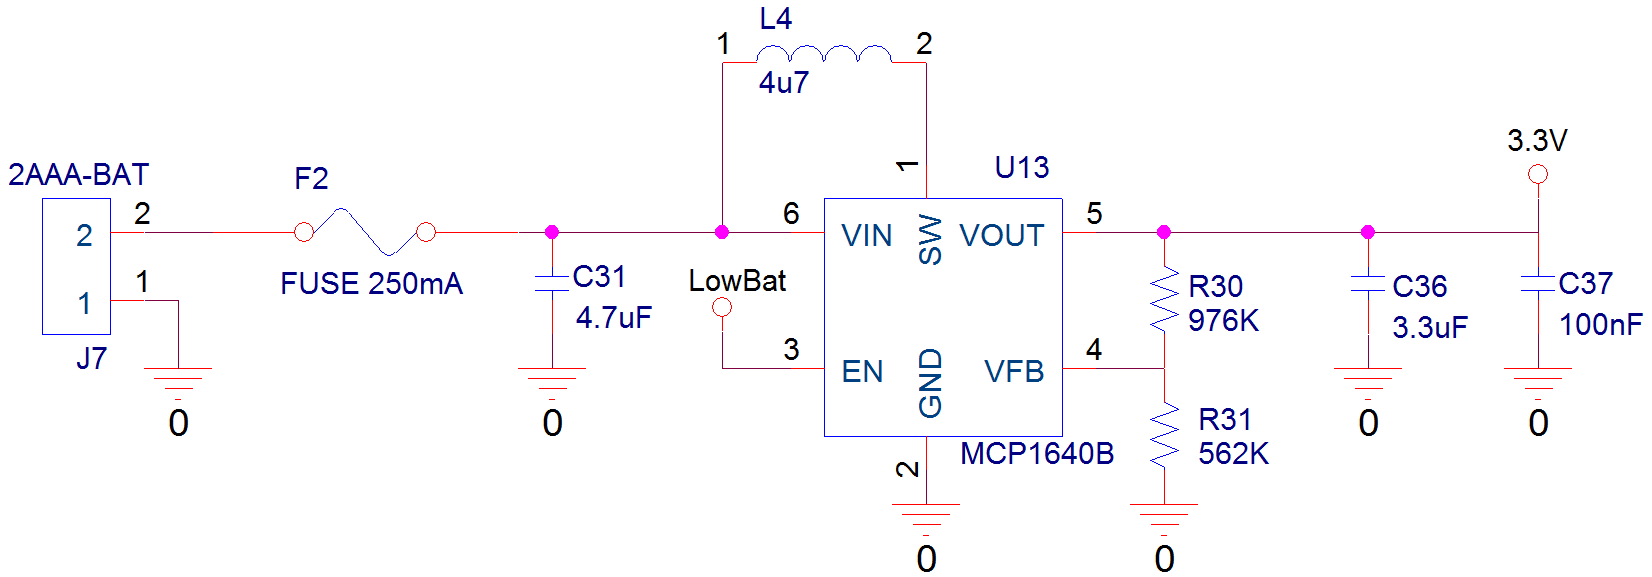
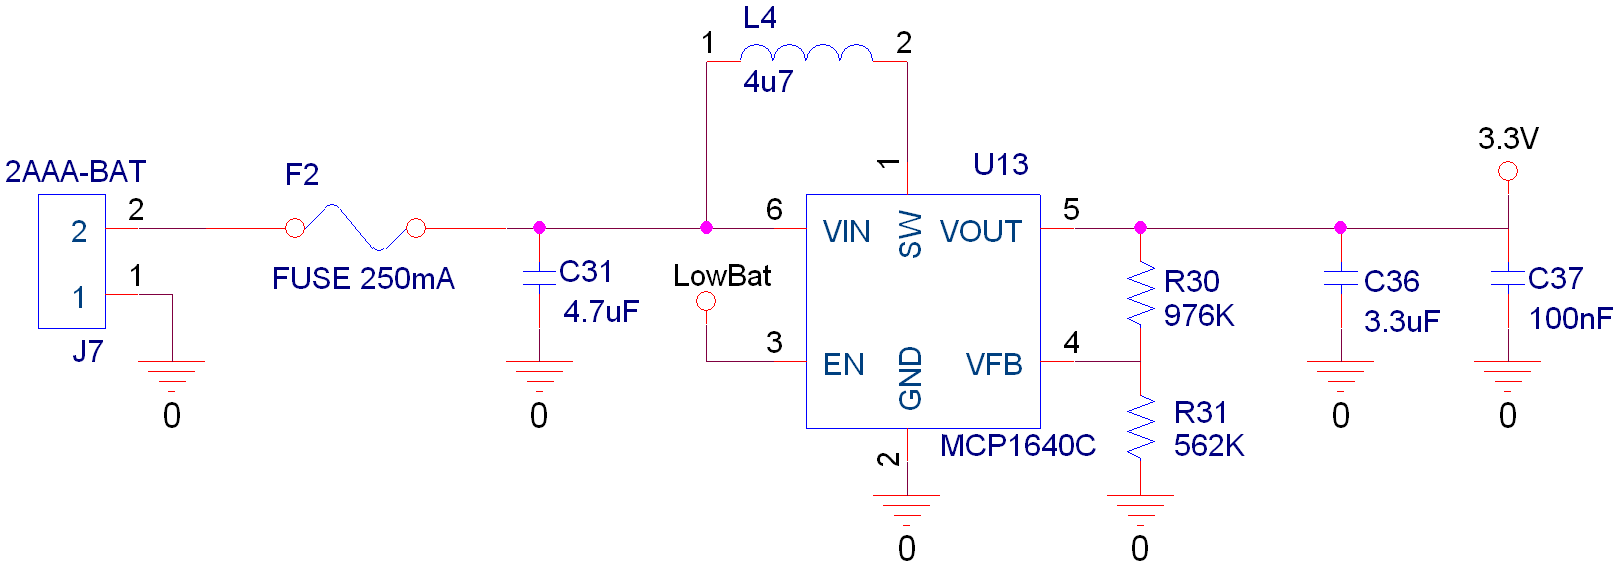
smårettelser til Rapport

diff --git a/LaTeX/rapport/Projektbeskrivelse/HWDesign/hwdesign.tex b/LaTeX/rapport/Projektbeskrivelse/HWDesign/hwdesign.tex
@@ -24,13 +24,17 @@ På Figur \ref{fig:bddkontrol} ses en uddybning af de blokke der tilsammen udgø
 
 \subsubsection{Design}
 
+%%%%%%%%%%%%%%%%%%%%%%%%%%%%%%%%%%%%%%%%%%%% MIKROPROCESSOR %%%%%%%%%%%%%%%%%%%%%%%%%%%%%%%%%%%%%%%%%%%%%%%%%%%%%%%%
+
 \textbf{Mikroprocessor}\\
 Mikroprocessoren til kontrolboksen er valgt til at være en Atmel ATMEGA8L i TQFP pakke. Samme mikroprocessor er valgt til sensoren. Valget stod mellem Microchip's PIC serie eller Atmels ATMEGA serie og da der var størst kendskab til programmering af Atmel var det den producent der blev valgt. Fordelen ved Atmel er samtidig at programmet til at programmere mikroprocessoren i, AtmelStudio, er gratis og at der er nogle gode biblioteker som er godt dokumenteret. Microchip kan derimod godt være svære at gennemskue med hensyn til hvad der kræves betaling for.  
 
 Af perifere enheder på kontrolboksen bruges der SPI til transceiveren, I2C til displayet samt en del analoge pins til kontrol af motorventil og tastatur. På sensoren bruges der også den indbyggede 10-bit SAR ADC. 
 
+%%%%%%%%%%%%%%%%%%%%%%%%%%%%%%%%%%%%%%%%%%%% MOTORVENTIL %%%%%%%%%%%%%%%%%%%%%%%%%%%%%%%%%%%%%%%%%%%%%%%%%%%%%%%%
+
 \textbf{Motorventil}\\
-Der blev hos den kinesiske producent Flow-Control \cite{lib:flowcontrol} bestilt nogle motorventiler hjem. Disse blev i første omgang valgt grundet deres lave pris, omkring 150kr stykket og har en tilslutning som opfylder kravet om den skal kunne monteres på et 1/2" vandrør. Ventilen blev adskilt og det sås at der sat et lille print med et relæ til styring af ventilen. Styringen var lavet således at når den enten var i fuldt lukket eller åben position trak den intet strøm. På Figur \ref{fig:motorventilSamlet} ses motorventilen som den kommer fra producenten. På Figur \ref{fig:delt} ses motorventilen adskilt, hvor de grønne ledninger er til posotions-kontakterne og de røde er til motoren.
+Der blev hos den kinesiske producent Flow-Control \cite{lib:flowcontrol} bestilt nogle motorventiler hjem. Disse blev i første omgang valgt grundet deres lave pris, omkring 150kr stykket og har en tilslutning som opfylder kravet om den skal kunne monteres på et 1/2" vandrør. Ventilen blev adskilt og det sås at der sat et lille print med et relæ til styring af ventilen. Styringen var lavet således at når den enten var i fuldt lukket eller åben position trak den intet strøm. På Figur \ref{fig:motorventilSamlet} ses motorventilen som den kommer fra producenten. På Figur \ref{fig:delt} ses motorventilen adskilt, hvor de grønne ledninger er til postions-kontakterne og de røde er til motoren.
 
 \begin{figure}[H]
   \centering
@@ -58,6 +62,8 @@ Der blev dog i første omgang designet en relæstyring af ventilen. Men den vist
 
 \newpage
 
+%%%%%%%%%%%%%%%%%%%%%%%%%%%%%%%%%%%%%%%%%%%% DISPLAY %%%%%%%%%%%%%%%%%%%%%%%%%%%%%%%%%%%%%%%%%%%%%%%%%%%%%%%%
+
 \textbf{Display}\\
 Af krav til displayet var at det skulle køre på 3.3V, kommunikere over I2C bus og have 16X2 karakterer samt baggrundsbelysning. Ved undersøgelse af flere displays blev Newheaven's display \textit{NHD-C0216CiZ-FSW-FBW-3V3} udvalgt. Dette skyldes primært at display'et har indbygget DC-DC step-up converter således at displayet kan forsynes ned til 2.8V. Normalt kører LCD displays på 5V, hvilket er over forsyningskravet på 3.3V. Opsætning og kommunikation sker via I2C som kravet foreskriver. Diagrammet for display'et ses på Figur \ref{fig:display_diagram}.
 
@@ -68,9 +74,11 @@ Af krav til displayet var at det skulle køre på 3.3V, kommunikere over I2C bus
 	\label{fig:display_diagram}
 \end{figure}
 
-D11 sidder for at sænke forsyningsspændingen til omkring 3V da forsyningen ikke må overskride 3.3V. C22 sidde over pin5 og pin6 som udgangskondesator for Step-up konverteren, C23 sidder over pin7 og pin8 som en integreret del af step-up konverteren og disse værdier er valgt ud fra databladet anbefalinger. Derudover benyttes Q13 for at kontrollere LED'en til baggrundsbelysningen hvormed dette kan styres fra software. SDA og SCL linjerne har pull-up modstande påsat som en del af standardopsætning for I2C-bussen.
+D11 sidder for at sænke forsyningsspændingen til omkring 3V da forsyningen ikke må overskride 3.3V. C22 sidder over pin5 og pin6 som udgangskondensator for Step-up konverteren, C23 sidder over pin7 og pin8 som en integreret del af step-up konverteren og disse værdier er valgt ud fra databladet anbefalinger. Derudover benyttes Q13 for at kontrollere LED'en til baggrundsbelysningen hvormed dette kan styres fra software. SDA og SCL linjerne har pull-up modstande påsat som en del af standardopsætning for I2C-bussen.
 
-\textbf{HF Transceiver}\\ \label{hwdesign_hftransceiver}
+%%%%%%%%%%%%%%%%%%%%%%%%%%%%%%%%%%%%%%%%%%%% HF TRANSCEIVER %%%%%%%%%%%%%%%%%%%%%%%%%%%%%%%%%%%%%%%%%%%%%%%%%%%%%%%%
+
+\textbf{HF Transceiver} \label{hwdesign_hftransceiver} \\
 Der er valgt at benytte en transceiver af typen MRF49XA fra Microchip, denne er valgt da den opfylder designkravene. Derudover skal denne kreds ikke forprogrammeres som mange andre RF-kredse skal, den kan derimod sættes op ved initialisering fra mikroprocessoren som krævet af systemet. Chippen er som skræddersyet til dette system da den er designet til batteri-applikationer. Den har en indbygget "low battery voltage detection" som afgiver et interrupt til mikroprocessoren når batterispændingen når under et forudindstillet threshold som sættes ved initiering af transceiveren. Dette interrupt bliver brugt på sensoren til at enable boostkonverteren, mere info kan findes i sektion \ref{P-sec:HWimp_transceiver_kontrolboks}: \nameref{P-sec:HWimp_transceiver_kontrolboks} side \pageref{P-sec:HWimp_transceiver_kontrolboks} for transceiveren, i dokumentationen. Derudover har den også en indbygget wake-up timer således at chippen kan sættes i sleep-mode, herved minimeres strømforbruget til nogle få $\mu A$, den kan herefter vækkes op igen efter en forudindstillet tidsperiode. Transceiveren kan kommunikere ved 433/868/915 MHz og ligger derfor i et frekvens område som ofte benyttes i consumer-elektronik. Transceiveren benytter sig af FSK modulation.
 
 På Figur \ref{fig:mrfx49a_diagram_kontrolboks} ses implementering af transceiveren på kontrolboksen.
@@ -85,8 +93,12 @@ På Figur \ref{fig:mrfx49a_diagram_kontrolboks} ses implementering af transceive
 Som udgangspunkt er databladets anbefalinger fulgt. Balun-kredsløbet er designet på baggrund af referencedesignet i databladet. Her er det vigtigt at holde sig til lavtolerance-komponenter for at holde sig tæt på de 50 $\Omega$ udgangsimpedans som det kræves af antennen. Det skal dog nævnes at der i databladet er byttet om på værdierne til balun-kredsløbet ved 433MHz og 868MHz i tabellerne under diagrammerne. Det er derfor svært at vide hvilke værdier der er de rigtige. Fejlen blev først opdaget tilsidst i projektet da rækkevidden ikke kunne komme længere op end ca 10m. Det er derfor nærliggende at tro det er de forkerte værdier som er blevet monteret.
 \newpage
 
+%%%%%%%%%%%%%%%%%%%%%%%%%%%%%%%%%%%%%%%%%%%% ANTENNE %%%%%%%%%%%%%%%%%%%%%%%%%%%%%%%%%%%%%%%%%%%%%%%%%%%%%%%%
+
 \textbf{Antenne}\\
 Der er på kontrolboksen valgt at bruge en SMD-antenne. Dette skyldes at der var begrænset plads i kontrolboksen og at andre løsninger enten ville være for dyre eller mekanisk ustabil. Her var der overvejet at trække en metalwire rundt i hele kontrolboksen som antenne eller at lave et ekstra print med en PCB-antenne, som monteres via en connector. SMD-antennen er af producenten \texttt{Johanson Technology} med  navn \texttt{0433AT62A0020} og har et tab på 4dBi. 
+
+%%%%%%%%%%%%%%%%%%%%%%%%%%%%%%%%%%%%%%%%%%%% STRØMFORSYNING %%%%%%%%%%%%%%%%%%%%%%%%%%%%%%%%%%%%%%%%%%%%%%%%%%%%%%%%
 
 \textbf{Strømforsyning}\\
 Kontrolboksen forsynes med en ekstern strømforsyning på 5V denne har en tolerence på 10\%. Da kontrolboksen internt skal køre på 3.3V er derfor nødvendigt at konvertere spændingen ned. Til dette er brugt en spændingsregulator. Samtidig er der lavet beskyttelse på indgangen således der beskyttes for omvendt polarisation, overspænding samt et for stort strømtræk. Se Figur \ref{fig:stromforsyning_digram1} 
@@ -100,8 +112,10 @@ Kontrolboksen forsynes med en ekstern strømforsyning på 5V denne har en tolere
 
 Spændingsregulatoren kan levere op til 500mA hvilket er mere end hvad der er brug for. Allerede sikringen vil sprænge ved et strømforbrug på 250mA. Beregninger som findes i projektdokummentationen sektion \ref{P-sec:HWimp_stromforsyning}: \nameref{P-sec:HWimp_stromforsyning} side \pageref{P-sec:HWimp_stromforsyning}, viser at der trækkes maksimalt omkring 40mA. Spændingsregulatoren kan derfor vælges til en mindre type som samtidig vil være billigere. 
 
+%%%%%%%%%%%%%%%%%%%%%%%%%%%%%%%%%%%%%%%%%%%% TASTAETUR %%%%%%%%%%%%%%%%%%%%%%%%%%%%%%%%%%%%%%%%%%%%%%%%%%%%%%%%
+
 \textbf{Tastatur}\\
-Systemet betjenes via et tastatur der monteres på kontrolboksen. Tastaturet består af 4 knapper som brugeren kan benytte til at navigere rundt i menuen. En sketchup af tastaturet kan ses på Figur \ref{fig:keypad_UI}. \texttt{SET} knappen benyttes til at skifte mellem menupunkterne. \texttt{Pil-op} og \texttt{Pil-ned} benyttes hhv.til at inkrementere eller dekrementere en given værdi. \texttt{OK} benyttes til at gemme indstillingen. For et fuldt overblik over menuen henvises til usecases i sektion \ref{P-ch:kravspecifikation} i projektdokumentationen. Tastaturet indeholder desuden et vindue til displayet, samt en rød LED der tændes hvis systemet registrerer en fejl. Eks. hvis batterispændingen bliver for lav. I det færdige produkt forventes det at implementere en specialbygget keypad, men til prototypeformål er her benyttet en 4 knappers membrane switch keypad som tastatur.
+Systemet betjenes via et tastatur der monteres på kontrolboksen. Tastaturet består af 4 knapper som brugeren kan benytte til at navigere rundt i menuen. En sketchup af tastaturet kan ses på Figur \ref{fig:keypad_UI} på side \pageref{fig:keypad_UI}. \texttt{SET} knappen benyttes til at skifte mellem menupunkterne. \texttt{Pil-op} og \texttt{Pil-ned} benyttes hhv.til at inkrementere eller dekrementere en given værdi. \texttt{OK} benyttes til at gemme indstillingen. For et fuldt overblik over menuen henvises til usecases i sektion \ref{P-ch:kravspecifikation} i projektdokumentationen. Tastaturet indeholder desuden et vindue til displayet, samt en rød LED der tændes hvis systemet registrerer en fejl. Eks. hvis batterispændingen bliver for lav. I det færdige produkt forventes det at implementere en specialbygget keypad, men til prototypeformål er her benyttet en 4 knappers membrane switch keypad som tastatur.
 
 \begin{figure}[H]
   \centering
@@ -120,6 +134,9 @@ Systemet betjenes via et tastatur der monteres på kontrolboksen. Tastaturet bes
 
 \newpage
 
+%%%%%%%%%%%%%%%%%%%%%%%%%%%%%%%%%%%%%%%%%%%% SENSOR %%%%%%%%%%%%%%%%%%%%%%%%%%%%%%%%%%%%%%%%%%%%%%%%%%%%%%%%
+%%%%%%%%%%%%%%%%%%%%%%%%%%%%%%%%%%%%%%%%%%%% SENSOR %%%%%%%%%%%%%%%%%%%%%%%%%%%%%%%%%%%%%%%%%%%%%%%%%%%%%%%%
+
 \subsection{Sensor}
 
 \begin{figure}[H]
@@ -131,8 +148,12 @@ Systemet betjenes via et tastatur der monteres på kontrolboksen. Tastaturet bes
 
 På Figur \ref{fig:bddsensor} ses en uddybning af de blokke der tilsammen udgør sensoren. Herunder beskrives hvordan disse enkelte blokke er blevet implementeret. For uddybning af designovervejelserne henvises til sektion \ref{P-sec:hardwaredesign}: \nameref{P-sec:hardwaredesign} på side \pageref{P-sec:hardwaredesign} i projektdokumentationen.
 
+%%%%%%%%%%%%%%%%%%%%%%%%%%%%%%%%%%%%%%%%%%%% MIKROPROCESSOR %%%%%%%%%%%%%%%%%%%%%%%%%%%%%%%%%%%%%%%%%%%%%%%%%%%%%%%%
+
 \textbf{Mikroprocessor}\\
 Som mikroprocessor er der valgt samme type som på kontrolboksen. Her er der dog små ændringer i brugen da den interne ADC bruges til at sample værdierne fra både jordfugtmåleren og lyssensoren. 
+
+%%%%%%%%%%%%%%%%%%%%%%%%%%%%%%%%%%%%%%%%%%%% JORDFUGT %%%%%%%%%%%%%%%%%%%%%%%%%%%%%%%%%%%%%%%%%%%%%%%%%%%%%%%%
 
 \textbf{Jordfugtmåler}\\
 Hovedformålet med jordfugtmåleren er som det fremgår af navnet; at måle jordfugtigheden. Her er der i videnskabelige artikler fundet frem til fire metoder at gøre dette på. En resistiv målemetode \cite{lib:MultiSensorSystem}, en kapasitiv målemetode\cite{lib:MultiSensorSystem}, en optisk målemetode\cite{lib:optical} og en metode hvor der bruges en varmepuls\cite{lib:DPHP}. Den resistive målemetode er den simpleste men desværre også den mest upræcise. Der er igennem projektet blevet undersøgt om denne målemetode kunne bruges trods dens begrænsninger og om der kunne findes en løsning der på. Da det viste sig at være svært at forbedre den resistive målemetode blev der herefter undersøgt hvordan der kunne laves en kapasitiv måling. Skalaen som der er brugt at at bestemme jordfugten er den volumetriske skala\cite{lib:wiki_waterContent}. 
@@ -156,6 +177,8 @@ Hvor $m_w$ er massen af væske, $m_{wet}$ er massen af den fugtige jord og $\eta
 \end{equation}
 
 Det er derfor nu muligt at bestemme en jordfugtighed uden at skulle måle volumen af prøven. Til vejning af jordprøver er der blevet brugt en vægt af producenten \texttt{Sartorius} model \texttt{QUINTIX2102-1S} med en præcision på $\pm0.01g$.
+
+%%%%%%%%%%%%%%%%%%%%%%%%%%%%%%%%%%%%%%%%%%%% JORDFUGT - RESISTIV MÅLING %%%%%%%%%%%%%%%%%%%%%%%%%%%%%%%%%%%%%%%%%%%%%%%%%%%%%%%%
 
 \textit{Resistiv måling} \\
 Den resistive målemetode er en metode til at måle den ohmske værdi af jorden. Jo mere vand jorden indeholder jo mere ledende vil jorden være og den ohmske værdi vil herefter falde. Der er dog mange faktor som kan være med til at give en måleusikkerhed, disse usikkerheder er betinget af selve næringsindholdet i jorden, om jorden er forurenet med metaller eller om proben som der måles med, har været udsat for kraftig tæring. Disse betingelser kunne der kalibreres for, men en kalibrering vil være besværlig for en almindelig bruger af systemet, da det vil kræve at brugeren ovntørrer en jordprøve og herefter tilsætter en præcis mængde vand for at vide med sikkerhed hvilken værdi der skal kalibreres ind efter. Det viste sig dog at der sammen med den resistive måling af jorden også opstod en kapasitiv virkning, som funktion af en stigetid. Ved hjælp af denne kunne der opstilles et ækvivalent-diagram som ses på Figur \ref{fig:akvj1}. 
@@ -186,6 +209,7 @@ Hvor a=2.219$\cdot 10^{7}$ b=-39.8 c=151.9 d=-3.473
 	\label{fig:funcfit}
 \end{figure} 
 
+%%%%%%%%%%%%%%%%%%%%%%%%%%%%%%%%%%%%%%%%%%%% JORDFUGT - Kapactiv måling %%%%%%%%%%%%%%%%%%%%%%%%%%%%%%%%%%%%%%%%%%%%%%%%%%%%%%%%
 
 \textit{Kapacitiv måling} \\
 Den kapacitive målemetode benytter sig af et jordspyd stukket ned i jorden\cite{lib:SoilModeling} \cite{lib:MultiSensorSystem} \cite{lib:DPHP} \cite{lib:cap_soil}. På jordspyddet er der to kobberplader som vil danne en kapacitet der vil variere afhængig af fugtigheden af den jord det befinder sig i. Se Figur \ref{fig:kap1} og \ref{fig:kap2}. Kobberbanerne skal dog forinden belægges med en elektrisk isolerende coating for at undgå kortslutning og korodering.
@@ -244,7 +268,6 @@ Der er blevet designet 4 typer af jordspyd som er blevet brugt til test. Det vis
   \end{minipage}
 \end{figure}
 
-
 \begin{figure}[H]
   \centering
     \begin{minipage}[b]{0.4\textwidth}
@@ -285,10 +308,10 @@ Det blev overvejet hvordan kapaciteten kunne måles præcist uden at det skulle 
 	\label{fig:j9}
 \end{figure}  
 
-Kredsløbet virker ved at der fra mikroprocessoren kommer en firkantspænding på 100kHz igennem jordspydet som virker som en kondensator. Denne kondensator bliver belastet af R22 således at der totalt opnåes en faseændring på 55$^\circ$ fra 0\% fugtighed til 100\% fugtighed. Herefter føres firkantspændingen i et båndpasfilter og vil ligge som en faseforskudt sinus på udgangen af U12A. Da U12 er en inverterende forstærker monteres U8A som en komparator der både vender fasen til 0$^\circ$ igen og samtidig sørger for at konvertere sinusen om til en firkant igen, således indgangen af U10A skifter hurtigt. U10A er en XOR-gate som her bruges tom fasedetektion. På indgang B kommer den faseforskudte firkant og på indgang A er en forskudt frekvens fra mikroprocessoren som kalibreres ind ved at kalde en kalibrerings-funktion således der ligger 0V på C26 ved 0\% fugtighed. Alt afhænging af fugtigheden i jorden vil der nu ligge en DC på C26. Denne forstærkes som sidste led op af U12B således der gived et bedre dynamisk range til mikroprocessorens ADC. Q11 er blevet monteret for at kunne slukke totalt for målekredsløbet når det er inaktivt for at spare strøm. \\
+Kredsløbet virker ved at der fra mikroprocessoren kommer en firkantspænding på 100kHz igennem jordspyddet som virker som en kondensator. Denne kondensator bliver belastet af R22 således at der totalt opnås en faseændring på 55$^\circ$ fra 0\% fugtighed til 100\% fugtighed. Herefter føres firkantspændingen i et båndpasfilter og vil ligge som en faseforskudt sinus på udgangen af U12A. Da U12 er en inverterende forstærker monteres U8A som en komparator der både vender fasen til 0$^\circ$ igen og samtidig sørger for at konvertere sinusen om til en firkant igen, således indgangen af U10A skifter hurtigt. U10A er en XOR-gate som her bruges tom fasedetektion. På indgang B kommer den faseforskudte firkant og på indgang A er en forskudt frekvens fra mikroprocessoren som kalibreres ind ved at kalde en kalibrerings-funktion således der ligger 0V på C26 ved 0\% fugtighed. Alt afhængig af fugtigheden i jorden vil der nu ligge en DC på C26. Denne forstærkes som sidste led op af U12B således der givet et bedre dynamisk range til mikroprocessorens ADC. Q11 er blevet monteret for at kunne slukke totalt for målekredsløbet når det er inaktivt for at spare strøm. \\
 
 Desværre viste kredsløbet sig at volde store problemer. I første øjekast så det ud til at virke, men ved nærmere iagttagelse sås der at det gav en for stor faseforskydelse. Det viste sig at faseforskydelsen opstod i U12A. Der blev testet med en tonegenerator og det blev opserveret at der ved en amplitude ændring på indgangen opstod en faseforskydelse på udgangen. Filterets komponentværdier blev ændret til et lavere Q men dette gav intet bedre resultat. Komponent-værdierne blev også skaleret således udgangen ikke blev belastet så hårdt. Dette hjalp hellere ikke. Til sidst blev det forsøgt at udskifte operationsforstærkeren til en anden type. Dette gjorde dog at båndpassfilteret begyndte at oscillere.
-Da det begyndte at knibe med tiden blev der derfor implementeret en løsning som i starten var valgt fra pga. dens dårlige støj og temperatur forhold. Se sektion \ref{P-sec:HWimp_jordfugt}: \nameref{P-sec:HWimp_jordfugt} side \pageref{P-sec:HWimp_jordfugt} i projektdokumentationen og Figur \ref{fig:jdig1} herunder.
+Da det begyndte at knibe med tiden blev der derfor implementeret en sekundær løsning som i starten var blevet fravalgt pga. dens dårlige støj og temperaturforhold. Se sektion \ref{P-sec:HWimp_jordfugt}: \nameref{P-sec:HWimp_jordfugt} side \pageref{P-sec:HWimp_jordfugt} i projektdokumentationen og Figur \ref{fig:jdig1} herunder.
 
 \begin{figure}[H]
 	\centering
@@ -306,6 +329,8 @@ På Figur \ref{fig:j20} ses udgangsspændingen vs. kapaciteten. Regressionen er 
 	\label{fig:j20}
 \end{figure} 
 
+%%%%%%%%%%%%%%%%%%%%%%%%%%%%%%%%%%%%%%%%%%%% TEMP-FØLER %%%%%%%%%%%%%%%%%%%%%%%%%%%%%%%%%%%%%%%%%%%%%%%%%%%%%%%%
+
 \textbf{Temperaturføler}\\
 Kravet til temperaturføleren var at den skulle have en opløsning på minimalt 1 decimal og at den skulle have en præcision på 0.5$^\circ$C og kommunikere over I2C bussen. Dette krav blev opfyldt med valg af \texttt{TMP75B }som ses på Figur \ref{fig:dtemp}. \texttt{TMP75B} har en intern 12-bit ADC som kan give en opløsning på 0.0625$^\circ$C og en præcision på 0.5$^\circ$C ved 25$^\circ$C. \texttt{TMP75B} opsættes til at køre i single-shot mode hvilket vil sige at den ligger i sleep-mode det meste af tiden. Kun når temperaturen aflæses laves der en enkelt konvertering. Dette er med til at sikre et lavt strømforbrug.  
 
@@ -316,22 +341,27 @@ Kravet til temperaturføleren var at den skulle have en opløsning på minimalt 
   \label{fig:dtemp}
 \end{figure}
 
-\textbf{HF-Transceiver}
+%%%%%%%%%%%%%%%%%%%%%%%%%%%%%%%%%%%%%%%%%%%% HF TRANSCEIVER %%%%%%%%%%%%%%%%%%%%%%%%%%%%%%%%%%%%%%%%%%%%%%%%%%%%%%%%
+
+\textbf{HF-Transceiver} \\
 Transceiveren er valgt til \texttt{MRF49XA} som er den samme som på kontrolboksen.
 
+%%%%%%%%%%%%%%%%%%%%%%%%%%%%%%%%%%%%%%%%%%%% Antenne %%%%%%%%%%%%%%%%%%%%%%%%%%%%%%%%%%%%%%%%%%%%%%%%%%%%%%%%
+
 \textbf{Antenne}\\
-Som antenne på sensoren er der valgt en helical antenne. Denne er valgt da den har et relativt lavt tab på 2.9dBi.  Antennen er samtidig også meget isotopisk hvilket vil sige at den udstråler lige meget energi i alle retninger, hvilket gør at brugeren ikke skal tænke over hvilken vej sensoren pejer i forhold til kontrolboksen. Antennen fylder dog en del og det har derfor ikke været muligt at få plads til den i kontrolboksen.  
+Som antenne på sensoren er der valgt en helical antenne. Denne er valgt da den har et relativt lavt tab på 2.9dBi.  Antennen er samtidig også meget isotopisk hvilket vil sige at den udstråler lige meget energi i alle retninger, hvilket gør at brugeren ikke skal tænke over hvilken vej sensoren vender ift. kontrolboksen. Antennen fylder dog en del og det har derfor ikke været muligt at få plads til denne type i kontrolboksen. Det skal dog bemærkes at grundet pladsproblemer har det ikke været muligt at opnå optimal placering af antennen på sensor-PCB'et. For mere info herom henledes opmærksomheden til Sektion \ref{P-sec:HWimp_antenne_sensor} på side \pageref{P-sec:HWimp_antenne_sensor} i projektdokumentationen.   
+
+%%%%%%%%%%%%%%%%%%%%%%%%%%%%%%%%%%%%%%%%%%%% Lysmåler %%%%%%%%%%%%%%%%%%%%%%%%%%%%%%%%%%%%%%%%%%%%%%%%%%%%%%%%
 
 \textbf{Lysmåler}\\
 Som lysmåler er der blevet brugt en fototransistor af typen BPW96B. Diagram ses på Figur \ref{fig:lysdiagram}. Når der indstråles lys på fotodioden vil spændingen over C32 stige. Det blev valgt at designe kredsløbet sådan at der ved skumringstid vil ligge 1VDC på C32. Dette gøres fordi at der ved måling fra mikroprocessorens ADC køres på den interne 2.56V reference. R20 blev bestemt til at være 47k$\Omega$. Når spændingen måles midles der over 20ms for at minimere 50Hz støj. På Figur \ref{fig:test_måling4} ses der lysmålerens respons ved solopgang og solnedgang. Den røde kurve er strøm og den blå er spænding. Den striplede linje er 1V. 
 
 \begin{figure}[H]
 	\centering
-	\includegraphics[width=0.2\textwidth]{../fig/Lysmaeler/diagram.png}
+	\includegraphics[width=0.19\textwidth]{../fig/Lysmaeler/diagram.png}
 	\caption{Diagram over lysmåleren}
 	\label{fig:lysdiagram}
 \end{figure} 
-
 
 
 \begin{figure}[H]
@@ -341,8 +371,10 @@ Som lysmåler er der blevet brugt en fototransistor af typen BPW96B. Diagram ses
 	\label{fig:test_måling4}
 \end{figure}
 
+%%%%%%%%%%%%%%%%%%%%%%%%%%%%%%%%%%%%%%%%%%%% PSU %%%%%%%%%%%%%%%%%%%%%%%%%%%%%%%%%%%%%%%%%%%%%%%%%%%%%%%%
+
 \textbf{PSU}\\
-Som strømforsyning til sensoren er der blevet valgt en boostconverter af typen \texttt{MCP1640B} fra \texttt{Microchip}. Se Figur \ref{fig:boostkonverter}. Boostconverteren bliver først enablet når batterispændingen når under 2.8V. Dette måles af transceiveren som ved denne spænding giver et interrupt til mikroprocessoren, som derefter tænder for boostconverteren.  
+Som PSU til sensoren er der blevet valgt en boostkonverter af typen \texttt{MCP1640C} fra \texttt{Microchip}. Denne er specifikt valgt for dens PWM/PFM struktur der højner effektiviteten ved lave loads, samt den Input to Output bypas funktion der helt eliminerer boostkredsløbet når konverteren er disable'et. Se Figur \ref{fig:boostkonverter}. Boostkonverteren bliver først enable'et når batterispændingen når under 2.8V. Dette måles af transceiveren som ved denne spænding giver et interrupt til mikroprocessoren, som derefter tænder for boostkonverteren.  
 
 \begin{figure}[H]
 	\centering

diff --git a/LaTeX/rapport/rapport.tex b/LaTeX/rapport/rapport.tex
@@ -15,6 +15,7 @@
 %Så man kan hive samtlige \labels i projektdokumentationen, alle har prefix "P-"
 \externaldocument[P-]{../projektdokumentation/acceptTest/accepttest}
 \externaldocument[P-]{../projektdokumentation/implementering/impl}
+\externaldocument[P-]{../projektdokumentation/implementering/hw/sensor/antenne_sensor}
 \externaldocument[P-]{../projektdokumentation/kravspecifikation/kravspecifikation}
 \externaldocument[P-]{../projektdokumentation/litteraturliste/litteraturliste}
 \externaldocument[P-]{../projektdokumentation/systemarkitektur/systemarkitektur}
